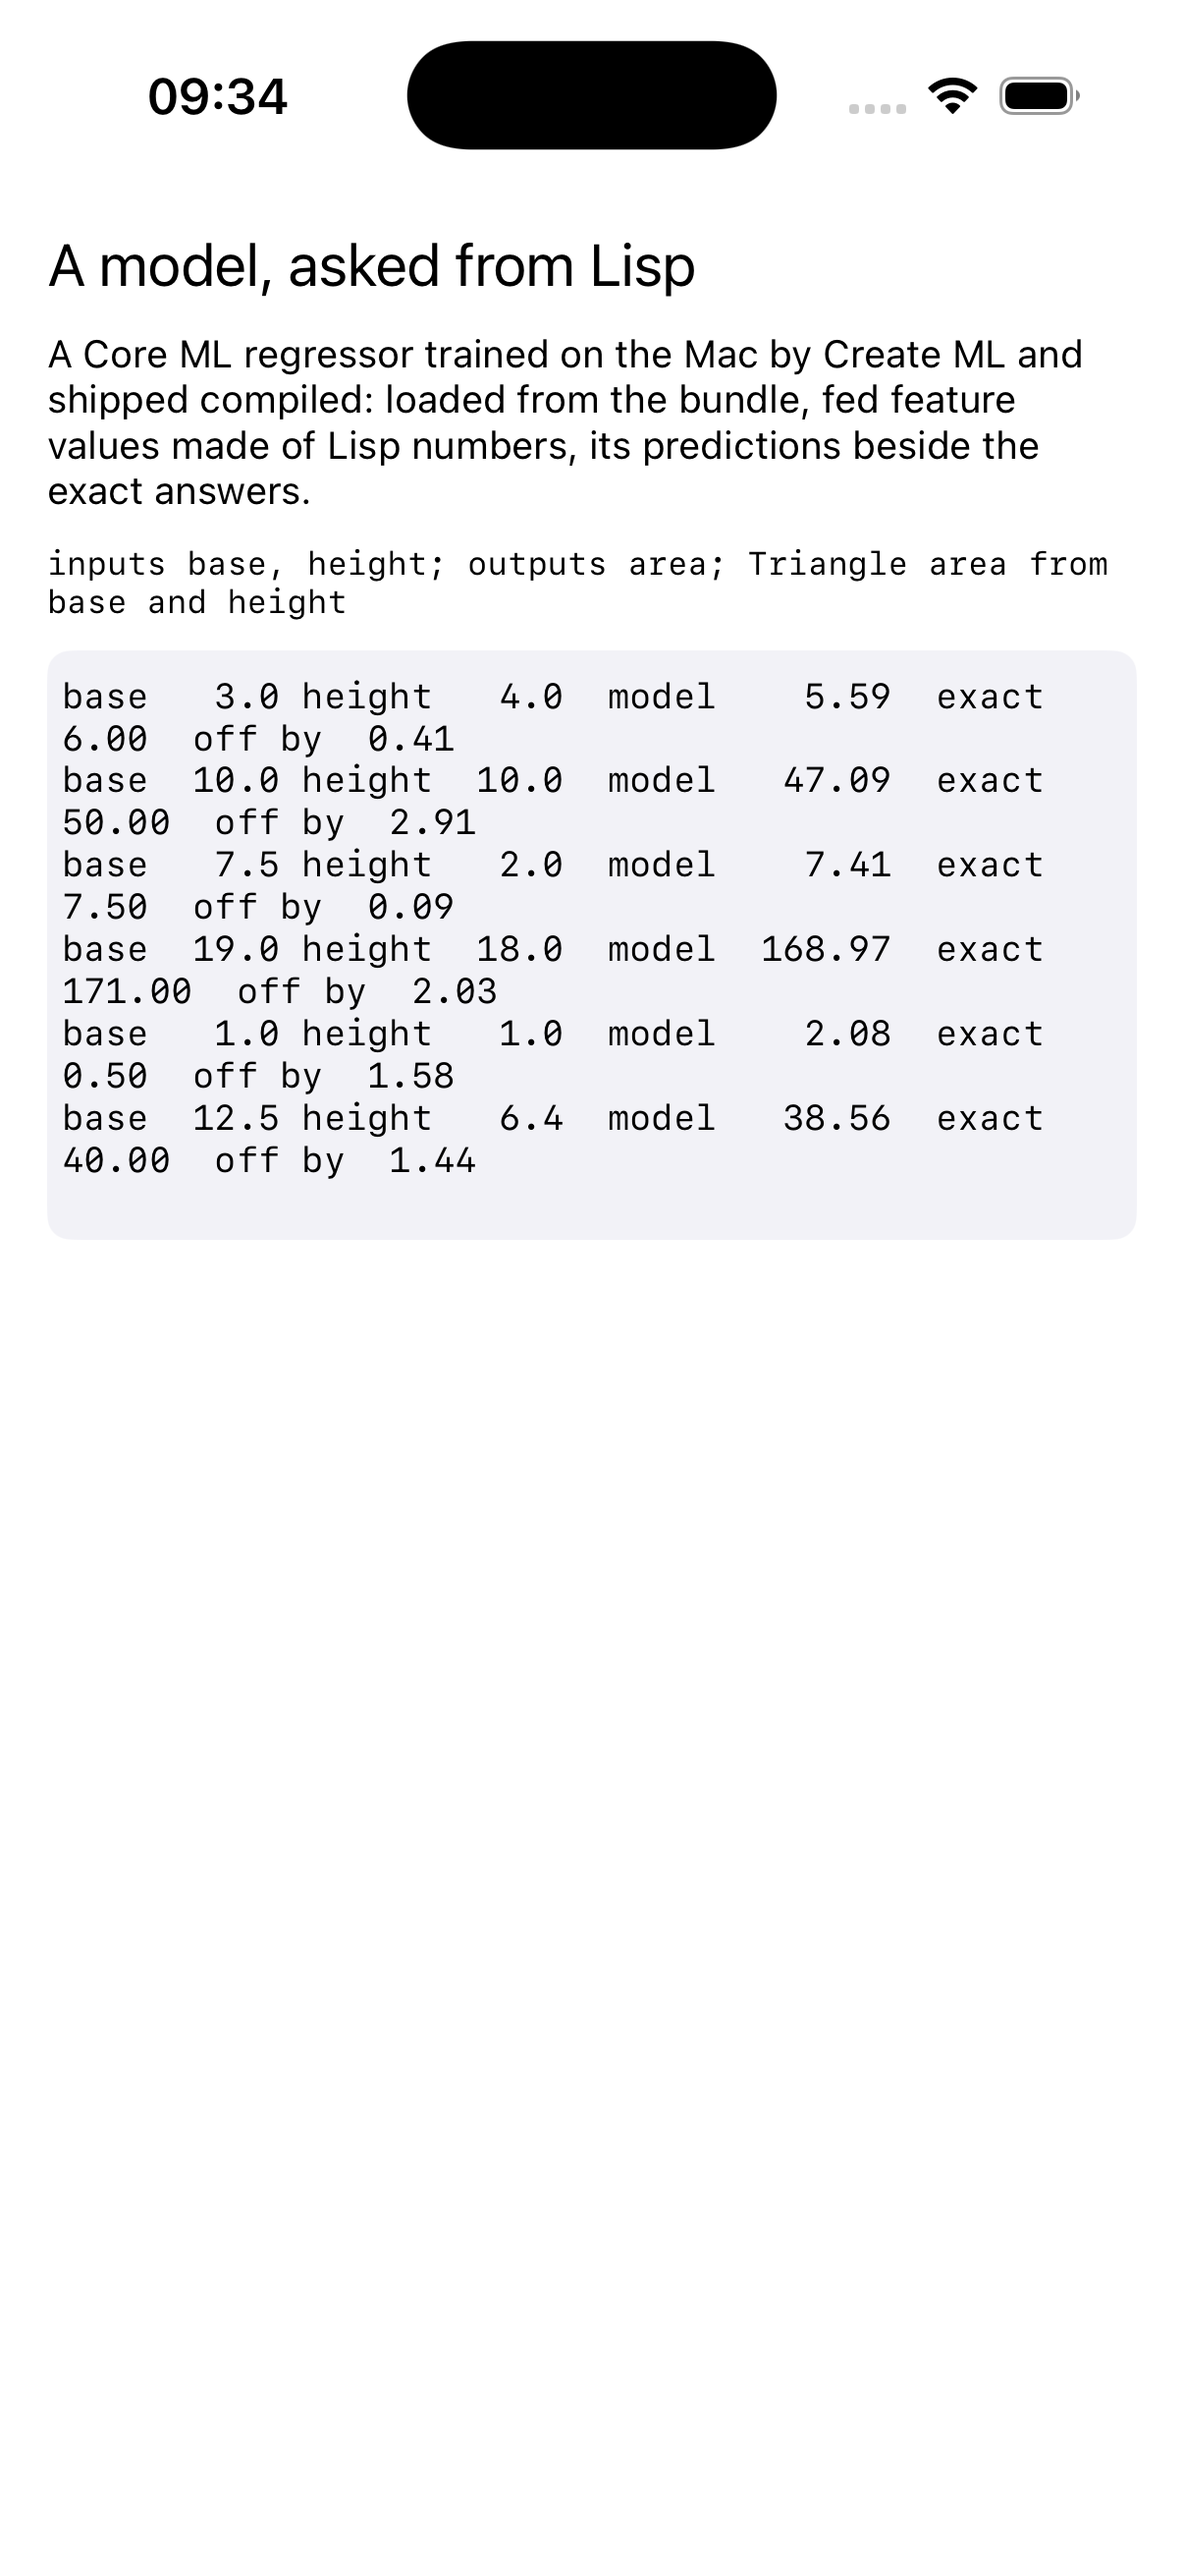
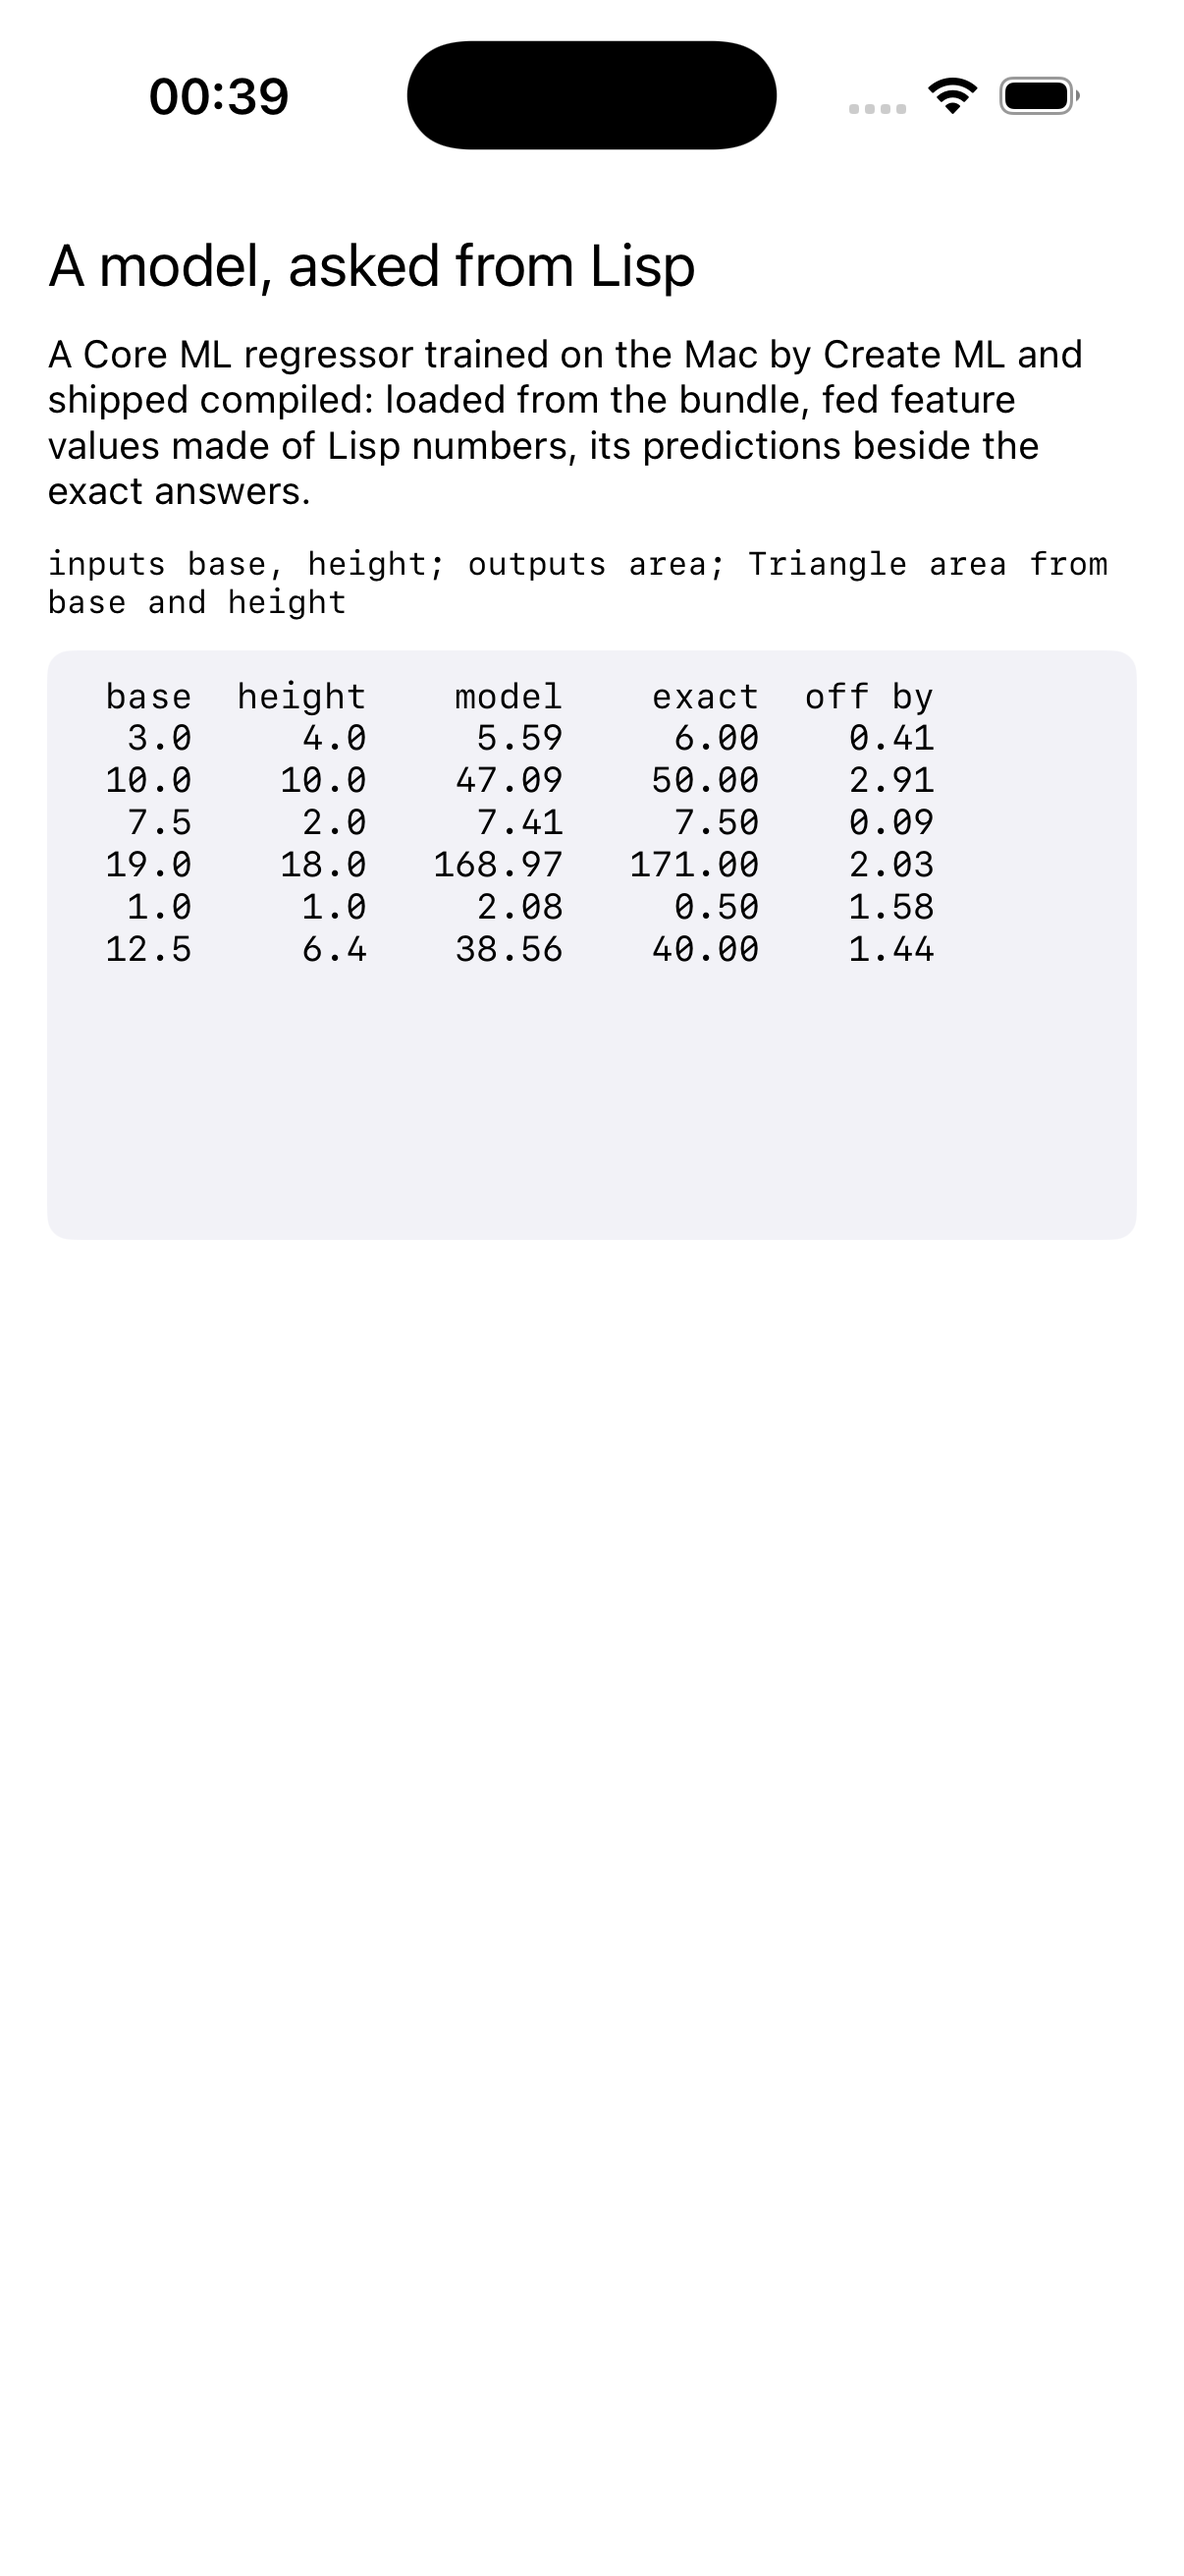
coreml: the table in columns under a header, so it fits a phone
Sixty-six characters of twelve-point mono wrapped every row on the
phone; a header and five aligned columns is forty.

Claude-Session: https://claude.ai/code/session_01NgCbB6Qut4Yz3MbLg9Kk7M

diff --git a/README.md b/README.md
@@ -153,7 +153,7 @@ you can write. There are more below.
 </tr>
 <tr>
   <td><img src="doc/screenshots/sprites.png" width="210" alt="A dark scene with four grey circular obstacles, a faint blue path threading between them, a gold leader square on the path and a flock of coloured squares following it."></td>
-  <td><img src="doc/screenshots/coreml.png" width="210" alt="A monospaced table of six triangle base and height pairs with the model's predicted area beside the exact area and the difference, under a line naming the model's inputs and outputs."></td>
+  <td><img src="doc/screenshots/coreml.png" width="210" alt="A monospaced table with a header row, base, height, model, exact and off by, and six rows of triangle dimensions with the model's predicted area beside the exact area and the difference, under a line naming the model's inputs and outputs."></td>
   <td><img src="doc/screenshots/closure-probe.png" width="210" alt="A monospaced report: five numbered checks of a libffi closure, each marked correct, and the line a libffi closure works on this device."></td>
 </tr>
 </table>

diff --git a/examples/coreml/README.md b/examples/coreml/README.md
@@ -2,7 +2,7 @@
 
 A Core ML model, trained on the Mac, run from Lisp on the phone.
 
-<img src="../../doc/screenshots/coreml.png" width="300" alt="A monospaced table of six triangle base and height pairs with the model's predicted area beside the exact area and the difference, under a line naming the model's inputs and outputs.">
+<img src="../../doc/screenshots/coreml.png" width="300" alt="A monospaced table with a header row, base, height, model, exact and off by, and six rows of triangle dimensions with the model's predicted area beside the exact area and the difference, under a line naming the model's inputs and outputs.">
 
 The model is a boosted-tree regressor that `build.sh` trains with Create
 ML, on the Mac, to give the area of a triangle from its base and height,
